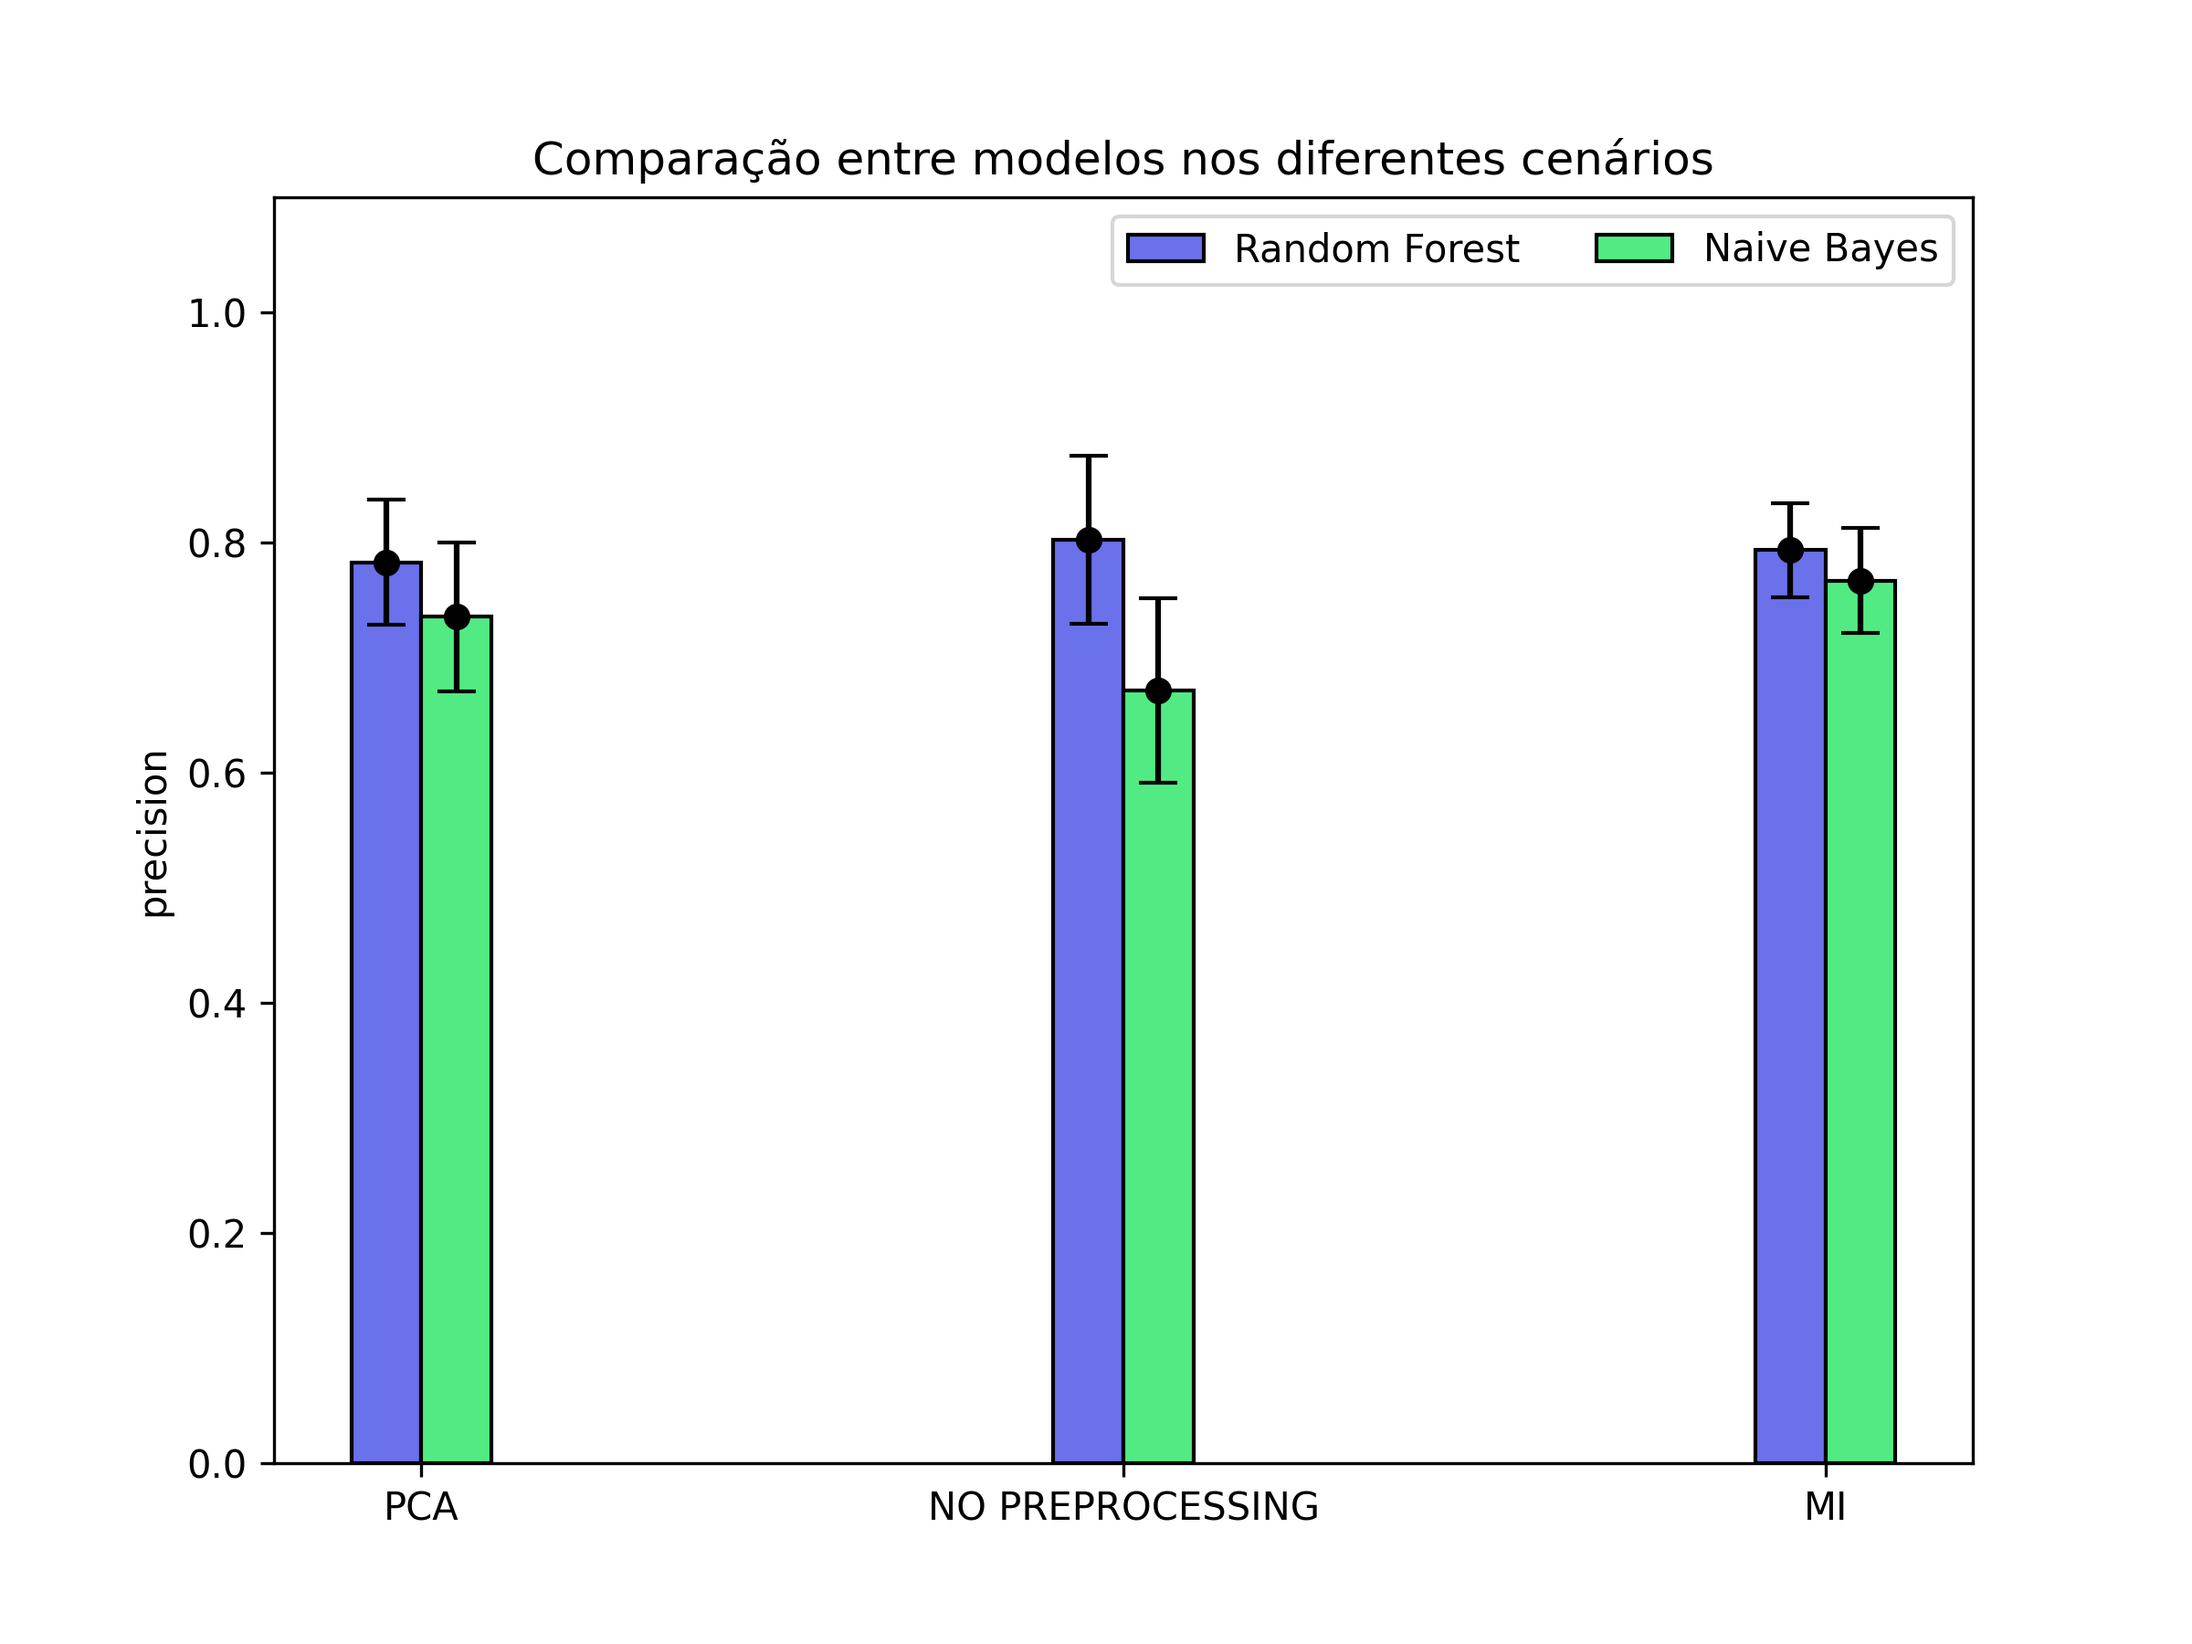
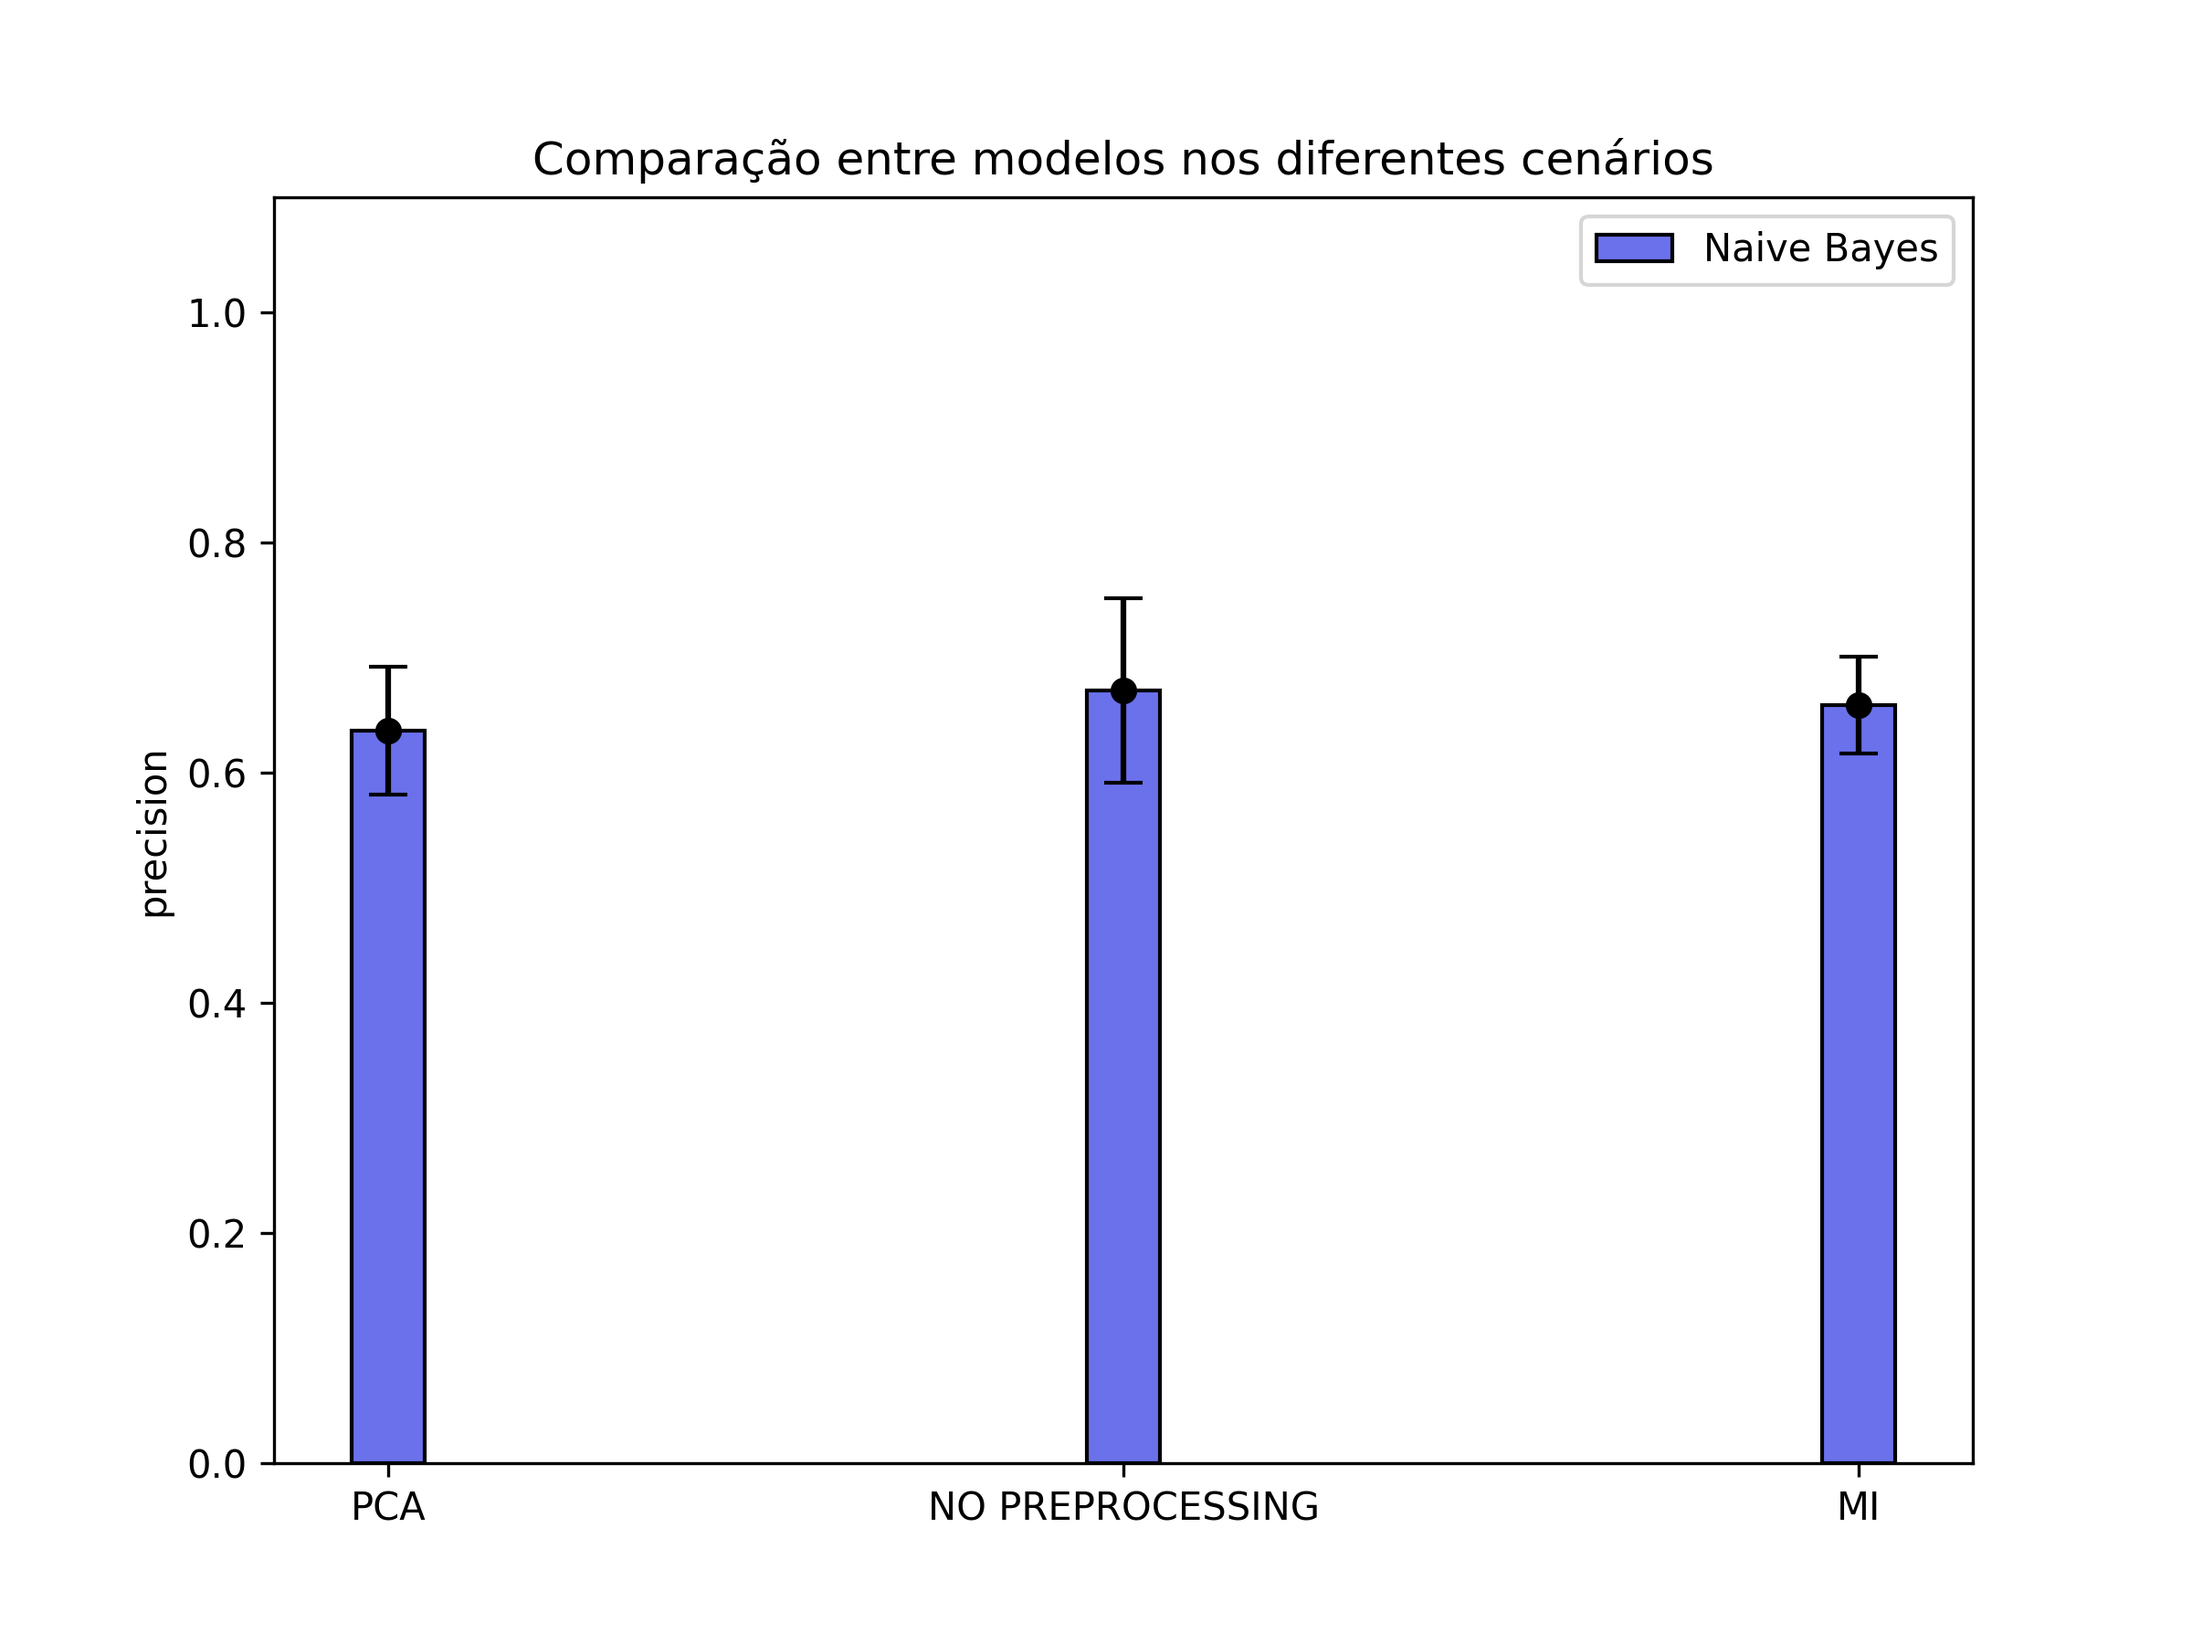
Removes random forest from models

diff --git a/src/train/models.py b/src/train/models.py
@@ -1,8 +1,7 @@
-from typing import Dict, List
-
 from sklearn.base import ClassifierMixin
-from sklearn.ensemble import RandomForestClassifier
+from typing import List, Dict
 from sklearn.naive_bayes import GaussianNB
+from sklearn.ensemble import RandomForestClassifier
 
 
 class Model:
@@ -25,5 +24,4 @@ class RandomForest(Model):
 
 MODELS = [
     NaiveBayes(),
-    RandomForest(),
 ]
